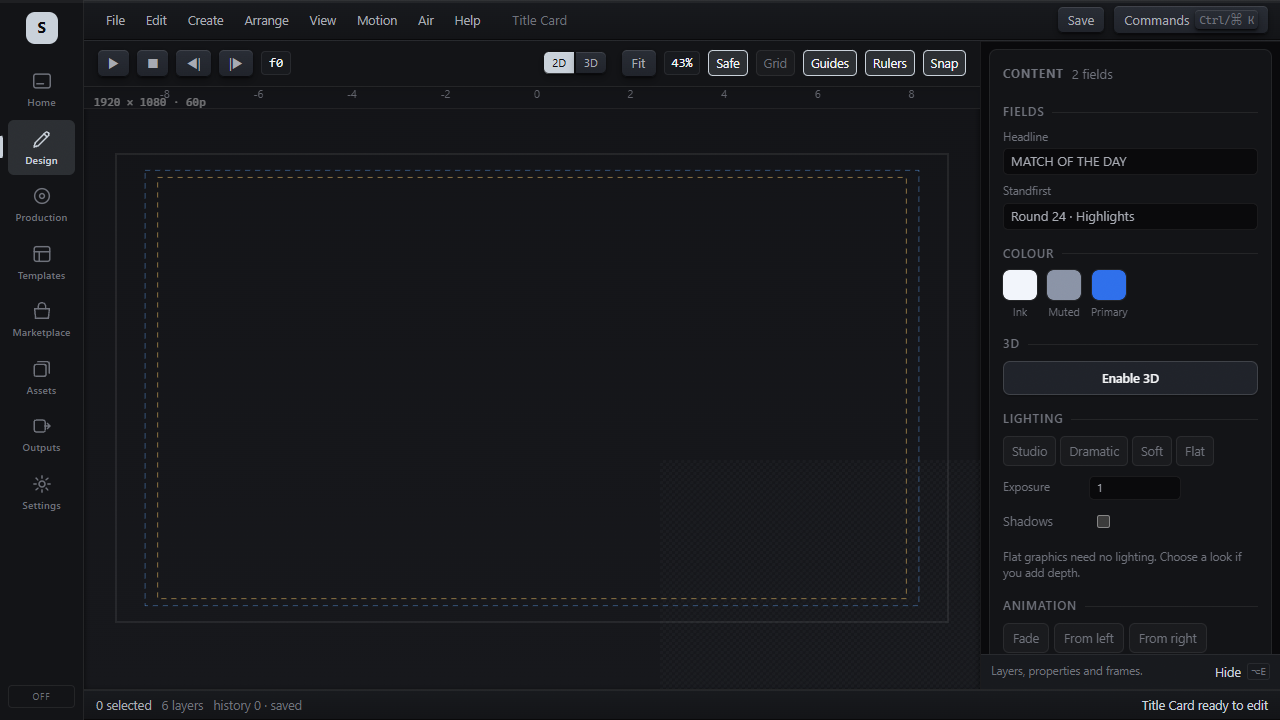
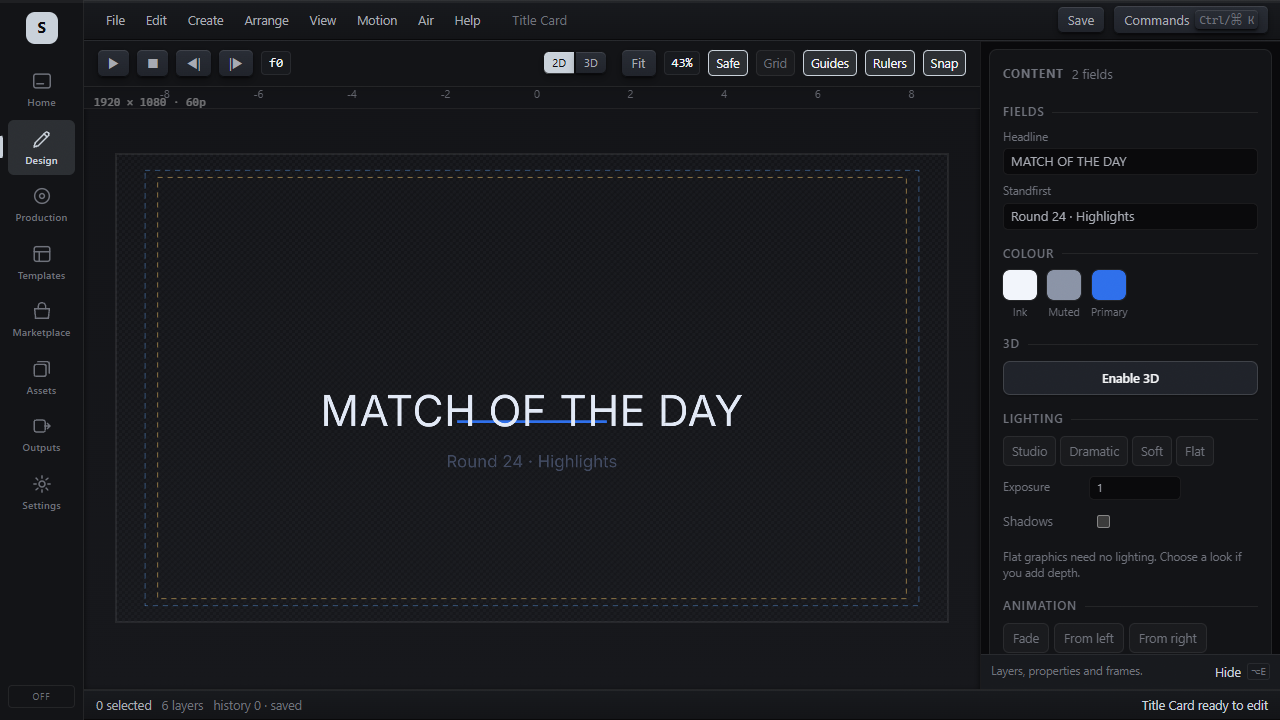
fix(studio): the picture and the overlay agree about where the world is
You told me the viewports were broken twice and I looked in the wrong
place both times. This is it, and it is mine.

WHAT WAS WRONG

The stage is two layers. The engine draws the graphic into a canvas; an
SVG overlay draws the frame edge, the rulers, the safe areas, the
selection and every gizmo. They agree only because of two lines:

    .scene-surface { position: absolute; top: 0; left: 0;
                     transform-origin: 0 0 }

Both went missing in the block deletion I made when the delivery-format
strip was removed — my extraction started one rule too late. Without
them the surface fell into normal flow and began scaling about its own
CENTRE instead of its top-left, which offset the picture from the
overlay by several hundred pixels.

So the lower third sat in one corner, its selection handles in another,
and the move gizmo floated in empty space. Clicking a layer selected
nothing, because the hit test was reading a coordinate space the picture
no longer occupied. In 3D the graphic was pushed almost entirely out of
view. Everything a person does on that screen was broken.

WHY A HUNDRED AND FIFTY TESTS PASSED

Every one of them measured the overlay against itself, or the canvas
against itself — and both were internally consistent the entire time.
Nothing compared THE TWO. A selection box was where the selection box
said it was; the engine drew where the engine said it drew; the two
statements were never put in the same sentence.
[…]

Changed region(s): [[0.25, 0.55, 0.5938, 0.6722]]

diff --git a/apps/studio/e2e/alignment.spec.ts b/apps/studio/e2e/alignment.spec.ts
@@ -1,0 +1,160 @@
+import { expect, test, type Page } from "@playwright/test";
+import { ensureDepth } from "./depth";
+
+/**
+ * The picture and the overlay agree about where the world is.
+ *
+ * ============================================================================
+ * THE BUG THIS EXISTS FOR, AND WHY NOTHING CAUGHT IT
+ * ============================================================================
+ * The stage is two layers. The ENGINE draws the graphic into a canvas; an SVG
+ * OVERLAY draws the frame edge, the rulers, the safe areas, the selection and
+ * every gizmo. They are separate elements and they agree only because the
+ * surface is pinned to the view's origin and scales from it:
+ *
+ *     .scene-surface { position: absolute; top: 0; left: 0; transform-origin: 0 0 }
+ *
+ * Two lines. They went missing in a careless block deletion, and the surface
+ * fell into normal flow and began scaling about its own centre — which offset
+ * the graphic from the overlay by several hundred pixels. The lower third sat
+ * in one corner, its selection handles in another, and clicking a layer
+ * selected nothing.
+ *
+ * A hundred and fifty browser tests passed. Every one of them either measured
+ * the overlay against itself, or the canvas against itself, and both were
+ * internally consistent the whole time. Nothing compared THE TWO.
+ *
+ * So that is what this file does, and it is the only thing it does.
+ */
+
+async function open(page: Page): Promise<void> {
+  await page.goto("/");
+  await expect(page.getByTestId("rail")).toBeVisible({ timeout: 30_000 });
+  await page.getByTestId("start-tpl_lower_third").click();
+  await expect(page.getByTestId("scene-view")).toBeVisible({ timeout: 30_000 });
+  await ensureDepth(page, "designer");
+  await page.waitForTimeout(700);
+}
+
+/**
+ * Is the engine drawing anything at this point on the page?
+ *
+ * Reads the canvas's own pixel under a SCREEN coordinate, which is the whole
+ * question: the overlay says the layer is here, so the picture had better be
+ * here too.
+ */
+async function opaqueAt(page: Page, x: number, y: number): Promise<boolean> {
+  return page.evaluate(
+    ({ px, py }) => {
+      const canvas = document.querySelector(".scene-surface canvas") as HTMLCanvasElement | null;
+      if (canvas === null) return false;
+      const box = canvas.getBoundingClientRect();
+      if (px < box.left || px > box.right || py < box.top || py > box.bottom) return false;
+      const gl = canvas.getContext("webgl2") ?? canvas.getContext("webgl");
+      if (gl === null) return false;
+
+      // Screen point to buffer point. The canvas is scaled by CSS, and readPixels
+      // counts from the BOTTOM, which is the classic way to read the wrong row.
+      const sx = Math.round(((px - box.left) / box.width) * canvas.width);
+      const sy = Math.round(((py - box.top) / box.height) * canvas.height);
+      const pixel = new Uint8Array(4);
+      gl.readPixels(sx, canvas.height - sy, 1, 1, gl.RGBA, gl.UNSIGNED_BYTE, pixel);
+      return pixel[3]! > 8;
+    },
+    { px: x, py: y },
+  );
+}
+
+test("a selected layer's handles sit on the layer", async ({ page }) => {
+  await open(page);
+  await page.getByTestId("outline").getByText("Background", { exact: true }).click();
+
+  const box = await page.getByTestId("selection-box").first().boundingBox();
+  expect(box, "selecting a layer must draw a selection").not.toBeNull();
+
+  // The middle of what the overlay says is the plate. The engine must be
+  // drawing the plate there. Offset the two layers and this is empty space.
+  const centre = { x: box!.x + box!.width / 2, y: box!.y + box!.height / 2 };
+  expect(
+    await opaqueAt(page, centre.x, centre.y),
+    "the overlay and the picture disagree about where the layer is",
+  ).toBe(true);
+});
+
+test("clicking where a layer is drawn selects that layer", async ({ page }) => {
+  await open(page);
+  await page.getByTestId("outline").getByText("Background", { exact: true }).click();
+  const box = (await page.getByTestId("selection-box").first().boundingBox())!;
+
+  // Deselect, then click the picture itself rather than the tree. This is the
+  // gesture that stops working when the layers drift apart, and it is the one
+  // a designer makes a thousand times a day.
+  await page.keyboard.press("Escape");
+  await expect(page.getByTestId("selection-box")).toHaveCount(0);
+
+  await page.mouse.click(box.x + box.width / 2, box.y + box.height / 2);
+  await expect(
+    page.getByTestId("selection-box"),
+    "clicking the graphic must select what is under the pointer",
+  ).toHaveCount(1);
+});
+
+test("it still agrees after a trip into 3D", async ({ page }) => {
+  await open(page);
+  await page.getByTestId("outline").getByText("Background", { exact: true }).click();
+
+  await page.getByTestId("dim-3d").click();
+  await page.waitForTimeout(1_800);
+
+  // THE GIZMO'S ORIGIN, not the selection box.
+  //
+  // In space a layer is a quad in perspective, and an axis-aligned rectangle
+  // around it is a poor description — its centre can legitimately fall off the
+  // shape. The gizmo is projected through the real camera and sits exactly on
+  // the layer's origin, which makes it the honest probe: if the overlay and
+  // the picture have drifted apart, the arrows are somewhere the graphic is
+  // not, and that is precisely what a designer sees.
+  const origin = await page.evaluate(() => {
+    const line = document.querySelector(".axes .axis line") as SVGLineElement | null;
+    const svg = document.querySelector(".scene-chrome") as SVGSVGElement | null;
+    if (line === null || svg === null) return null;
+    const box = svg.getBoundingClientRect();
+    return {
+      x: box.left + Number(line.getAttribute("x1") ?? 0),
+      y: box.top + Number(line.getAttribute("y1") ?? 0),
+    };
+  });
+
+  expect(origin, "a selection in space must draw a move gizmo").not.toBeNull();
+  expect(
+    await opaqueAt(page, origin!.x, origin!.y),
+    "in space the gizmo must sit on the layer it moves",
+  ).toBe(true);
+});
+
+/**
+ * The geometry the agreement rests on, asserted directly.
+ *
+ * Belt and braces: the tests above catch the symptom, and this catches the
+ * cause the moment somebody deletes it again — with a message that says what
+ * to put back.
+ */
+test("the picture is pinned to the view and scales from its origin", async ({ page }) => {
+  await open(page);
+  const geometry = await page.evaluate(() => {
+    const surface = document.querySelector(".scene-surface") as HTMLElement | null;
+    if (surface === null) return null;
+    const style = getComputedStyle(surface);
+    return { position: style.position, origin: style.transformOrigin };
+  });
+
+  expect(geometry).not.toBeNull();
+  expect(
+    geometry!.position,
+    "the surface must be pinned to the view, or it falls into normal flow",
+  ).toBe("absolute");
+  expect(
+    geometry!.origin,
+    "the surface must scale from its top-left, or zooming walks it away from the overlay",
+  ).toBe("0px 0px");
+});

diff --git a/apps/studio/src/styles.css b/apps/studio/src/styles.css
@@ -677,6 +677,26 @@ kbd {
 
 /* --- The confidence strip ------------------------------------------------ */
 
+/* THE PICTURE IS PINNED TO THE VIEW'S ORIGIN, AND SCALES FROM IT.
+
+   These two lines went missing in a careless block deletion, and the result
+   was the fault that made both viewports unusable: without `position:
+   absolute; top: 0; left: 0` the surface sits in normal flow, and without
+   `transform-origin: 0 0` the zoom scales it about its own CENTRE.
+
+   Both together offset the rendered picture from the SVG overlay by hundreds
+   of pixels. The frame outline, the rulers, the safe areas and every gizmo are
+   drawn by the overlay; the graphic is drawn by the engine into the surface.
+   They stopped agreeing about where the world was — so the graphic sat in one
+   corner, the gizmo in another, and clicking a layer selected nothing.
+
+   `worldToScreen` assumes exactly this geometry. It is not decoration. */
+.scene-surface { position: absolute; top: 0; left: 0; transform-origin: 0 0; }
+/* The canvas is above anything else in the surface, always. It is appended
+   imperatively, so it cannot rely on DOM order to stay on top — and when it
+   did, a remounted sibling silently covered the scene. */
+.scene-surface canvas { display: block; width: 100%; height: 100%; position: relative; z-index: 1; }
+
 /* TRANSPARENCY, SAID QUIETLY.
    The checker was 24px squares at full strength, and it was the loudest thing
    on the screen — a designer judging the weight of a plate against live video
